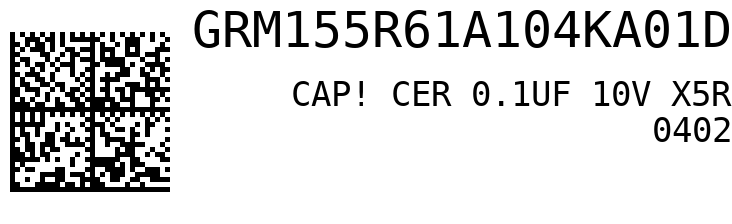
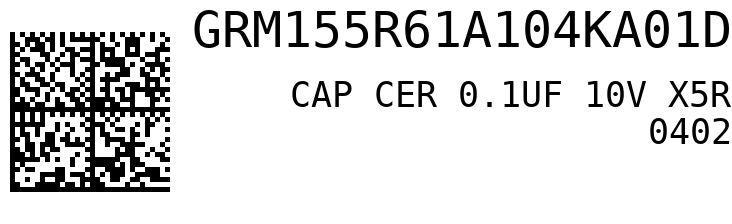
Cleanup example

Changed region(s): [[0.3907, 0.3438, 1.0, 0.6562]]

diff --git a/inventory_label.py b/inventory_label.py
@@ -146,11 +146,6 @@ class InventoryLabel:
         image.save(outfile)
 
 
-# part_no = "GRM155R61A104KA01D"
-# part_description = "CAP CER 0.1UF 10V X5R 0402"
-# barcode_data = "[)>\x1e06\x1dP490-1318-1-ND\x1d1PGRM155R61A104KA01D\x04".encode("utf-8")
-# outfile = "label.png"
-
 if __name__ == "__main__":
     parser = argparse.ArgumentParser()
     parser.add_argument("part_no", help="Part number")
@@ -161,5 +156,9 @@ if __name__ == "__main__":
     args = parser.parse_args()
     label = InventoryLabel()
     label.create_label(
-        args.part_no, args.description, args.barcode.encode('ascii'), args.outfile, debug=args.debug
+        args.part_no,
+        args.description,
+        args.barcode.encode("ascii"),
+        args.outfile,
+        debug=args.debug,
     )

diff --git a/README.md b/README.md
@@ -29,7 +29,7 @@ pip install -r requirements.txt
 
 ## Example:
 ```
-python inventory_label.py GRM155R61A104KA01D "CAP! CER 0.1UF 10V X5R 0402" "[)>\x1e06\x1dP490-1318-1-ND\x1d1PGRM155R61A104KA01D\x04" --outfile label.png
+python inventory_label.py GRM155R61A104KA01D "CAP CER 0.1UF 10V X5R 0402" "[)>\x1e06\x1dP490-1318-1-ND\x1d1PGRM155R61A104KA01D\x04" --outfile label.png
 ```
 
 (Use --debug to view preview image)
